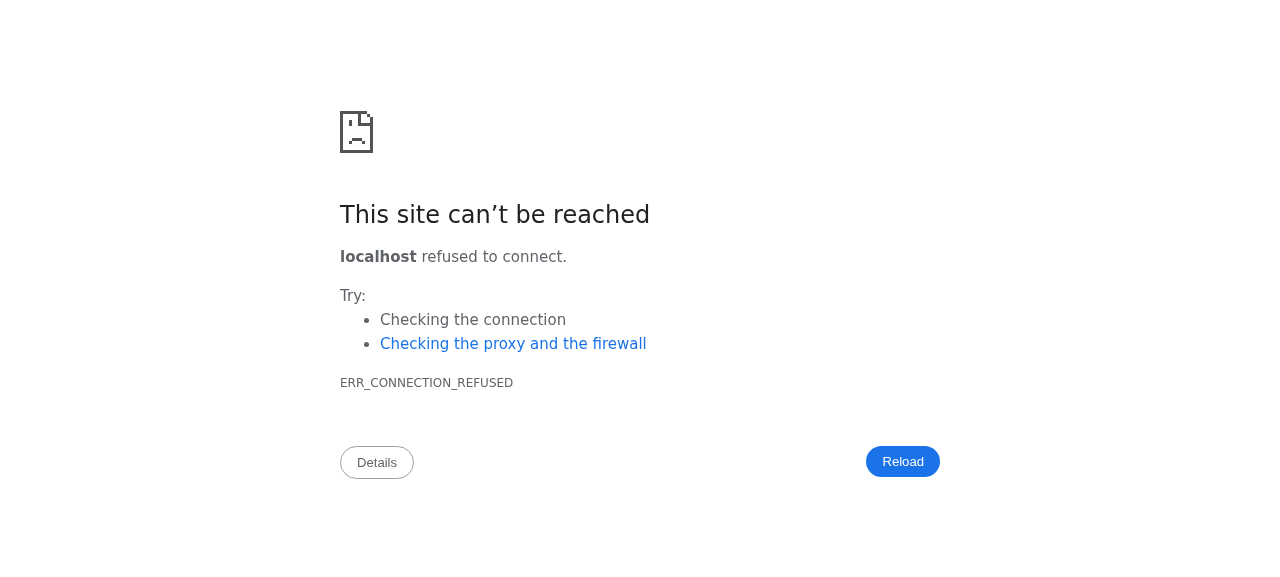
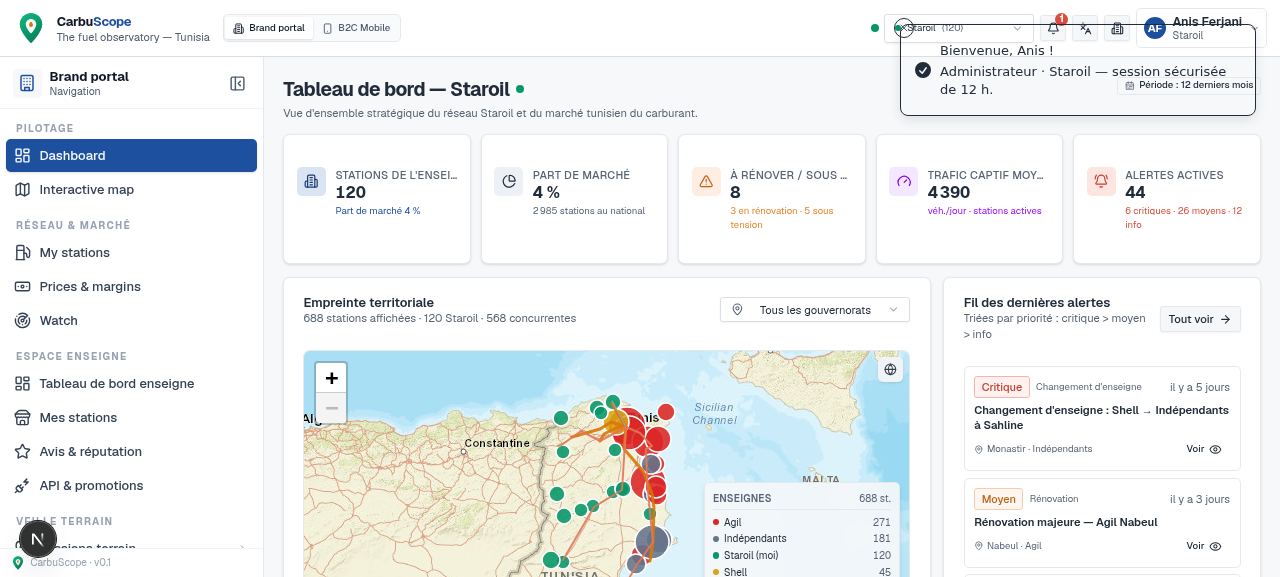
docs: worklog T50-R — restauration documentée + causes OOM/commit identifiées

diff --git a/worklog.md b/worklog.md
@@ -1396,3 +1396,36 @@ Stage Summary:
 - Jobs planifiés / incidents / maintenance : aucune donnée réelle disponible (modèles fantômes JobPlateforme/Incident/Sauvegarde/ParametrePlateforme) — besoin signalé, aucun substitut fabriqué.
 - Recommandation R4 : sa-banniere-alertes.tsx entièrement portée (version légère vivante) → supprimable ; sa-supervision.tsx partiellement portée (carte santé ; jobs/sauvegardes/restauration/incidents/maintenance non portables sans modèles) → décision à prendre avec le dossier de validation.
 - Captures : qa-t52-r1-overview.png, qa-t52-r1-overview-mobile.png. Enregistrement détaillé : agent-ctx/T52-R1-pilotage-sa.md.
+
+---
+Task ID: T50-R (restauration d'urgence de la convergence T50) + T52-R1 intégré
+Agent: Chef d'orchestration (Z.ai Code)
+Task: Un incident a effacé le code T50 jamais commité (commit HEAD pré-T50 + réécriture worklog) : reconstruire intégralement la convergence 3 espaces, la gouvernance des comptes, préserver les travaux R1/R2, protéger par commit git.
+
+Work Log:
+- DIAGNOSTIC : HEAD = a8343ee (27/09 01:06, pré-T50) ; working tree = HEAD + changements R1/R2 seulements ; fused/brand-space-view.tsx absent, store 7 modes, demo-accounts 8 comptes historiques, grille de connexion pré-T50 ; T50 n'avait JAMAIS été commité → toute la livraison avait disparu du disque. Cause de l'instabilité serveur identifiée : tueur OOM du conteneur 4 Go (next-server ~2,5 Go RSS + processus chrome zombies des agents R1/R2 ~700 Mo chacun) — dmesg : « Out of memory: Killed process next-server ».
+- NETTOYAGE : processus agent-browser/chrome zombies tués (3488, 3778) ; discipline mémoire établie (une seule session navigateur à la fois).
+- RECONSTRUCTION T50 (fichiers orchestrateur) :
+  - store/app-store.ts : Mode = portail|mobile|superadmin, Espace type, migrateMode(), persist v1 + migrate, rôle DG (ROLE_LABELS + TAB_ACCESS complet), PLATFORM_MODULE_ROLES/SHADOW_MODULE_ROLES, NAV es places défaut "portail".
+  - lib/auth.ts : spacesForUser 3 espaces (racine: superadmin+portail+mobile ; enseignes: portail+mobile), defaultSpaceForUser (racine→superadmin sinon portail).
+  - NOUVEAU components/fused/brand-space-view.tsx : dispatcheur nav.espace → observatoire (11 onglets) | portail | shadow | backoffice | agents.
+  - app/page.tsx : 3 espaces rendus (BrandSpaceView/MobileB2CView/SuperAdminView), garde superadmin→portail.
+  - shell/app-header.tsx : MODES réduit à 3 (Portail enseigne · Mobile B2C · Super Admin racine), icônes purgeées, alertes → setMode("portail")+setNav("espace","observatoire") ; hamburger xl:hidden seulement en mode mobile.
+  - shell/app-sidebar.tsx : branches observatoire/portail/shadow/backoffice/agents SUPPRIMÉES → UNE branche portail = blueprint 8 groupes (f-pilotage, f-reseau, f-enseigne, f-terrain+Application agents terrain, f-analyse+démographie conditionnelle, f-shadow [ADMIN/COMMERCIAL/DG], f-backoffice [ADMIN/DG] avec badges 9/5, f-gestion) ; NAV_DEFAULTS.espace="observatoire" ; badges BO chargés en espace enseigne ; isPreviewMode = mobile || (portail && espace=agents) ; branches mobile + superadmin conservées ; repli défensif.
+  - hooks/use-deep-links.ts : VALID_MODES 3 espaces + paramètre espace ; modes historiques (#mode=shadow…) convertis en #mode=portail&espace=… ; hash synchro sur nav.espace.
+  - auth/user-menu.tsx + login-gate.tsx : accueil = superadmin (racine) sinon portail ; copies « 3 espaces » ; déconnexion → portail.
+  - lib/demo-accounts.ts : 8 personas gouvernés (Rania racine, Tarek DG, Sonia, Karim, Mehdi, Leila, Anis Staroil, Nadia) — amine/yassine supprimés, modes portail/superadmin.
+  - api/auth/accounts/route.ts : CURATED = 8 comptes gouvernés.
+  - auth/login-screen.tsx : MODE_ICON/MODE_LABEL 3 espaces + copie héro.
+  - scripts/t50-accounts.ts (recréé) : purge 5 comptes plateforme (amine.chebbi, hichem.jaziri, ops, finance, admin@), Star Oil ACTIF (contrat + Anis débloqué), DG Tarek Mabrouk créé, Rania racine confirmée, 9 événements audit journalisés. Exécuté avec succès.
+- VÉRIFICATIONS : bunx tsc --noEmit → 0 erreur dans le périmètre T50 ; bun run lint → 0 erreur projet entier.
+- QA E2E agent-browser (session t52v) : login « 3 espaces » + grille 8 comptes gouvernés ; Rania → Super Admin (9 modules, en-tête 3 boutons) ; bascule Portail enseigne → sidebar 8 groupes complète avec badges Modération 9/Missions 5 ; navigation module par module vérifiée (espace=shadow → Shadow Market rendu, espace=agents, espace=backoffice, espace=portail, espace=observatoire, mode=mobile) ; Leila VIEWER → Shadow/BO masqués (6 groupes) ; Tarek DG → 8 groupes complets ; Anis → enseigne Staroil (120) connectée ; deep-link historique #mode=shadow converti en #mode=portail&espace=shadow ; viewport 390×844 → scrollWidth<=clientWidth, aucune overflow ; module Vue d'ensemble enrichi de R1 opérationnel post-restauration (bannière « 1 échéance critique · 6 factures en retard (10 900,00 DT) · plus pressante : Staroil J+15 », carte Santé, dismiss) ; 0 erreur console sur TOUT le parcours.
+- PROTECTION : **commit git 0fbe505** (T50 restauré + T52-R1 + T52-R2 partiel + worklog) — le travail est désormais versionné, un futur incident n'effacera plus rien.
+- Captures : qa-t50r-superadmin.png, qa-t50r-shadow.png, qa-t50r-agents.png, qa-t50r-mobile-b2c.png, qa-t50r-leila-viewer.png, qa-t50r-tarek-dg.png, qa-t50r-anis-staroil.png, qa-t50r-mobile-390.png, qa-t50r-sa-overview-enrichi.png.
+
+Stage Summary:
+- T50 RESTAURÉ ET COMMITÉ : 3 espaces exactement (Portail enseigne fusionné · Mobile B2C · Super Admin), zéro lien haut obsolète, gouvernance des comptes conforme (racine unique Rania, purges, Star Oil ACTIF, DG tout visible).
+- Cause des « pertes » identifiée : (1) absence de commit git des livraisons précédentes + (2) tueur OOM qui稳定性 le serveur. Règles nouvelles : commit systématique après chaque round ; discipline mémoire (une session navigateur, zombies nettoyés).
+- T52-R1 (Pilotage SA) INTÉGRÉ et re-validé : routes echeances/supervision réécrites sur modèles réels, overview enrichi (bannière, échéances, santé, MRR 6 mois reconstruit).
+- T52-R2 (Cycle commercial) : changements partiels préservés sur disque (sa-contracts/sa-plans/sa-invoices modifiés, lint clean, captures qa-t52-r2-*.png existantes) mais INACHEVÉS (timeout de l'agent, pas d'API relances câblée, pas d'entrée worklog, QA non refaite) → à re-dispatcher avec un agent de complétion.
+- Règle d'or confirmée pour tous les agents : QUALITÉ ET PERFECTION AVANT TOUT, précaution, zéro casse.
